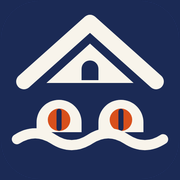
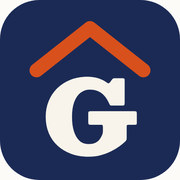
Try again on the mark: a G under the gable roof
The gable-and-gator-eyes mark read oddly. The new one is a bold
Clarendon G (Besley 900, cream) under an orange gable roof on a navy
rounded square. It stays legible at 16px and works beside the
wordmark. Favicons, the apple-touch and 512px icons and the header
mark (128px PNG/WebP) are rendered from it; the SVG favicon is
dropped since it relied on a web font. The four options compared are
in design-source/mark-options.html.

Claude-Session: https://claude.ai/code/session_01HHhNeFoxKeXYtJ9rwuHu6G

diff --git a/design-source/mark-options.html b/design-source/mark-options.html
@@ -1,0 +1,26 @@
+<!doctype html><html><head><meta charset="utf-8">
+<link rel="stylesheet" href="https://fonts.googleapis.com/css2?family=Besley:wght@800;900&display=swap">
+<style>body{margin:0;background:#fcfbf8} .m{width:512px;height:512px;display:inline-block;vertical-align:top} text{font-family:Besley}</style></head><body>
+<!-- A: GH monogram under an orange gable roof -->
+<svg class="m" id="A" viewBox="0 0 64 64"><rect width="64" height="64" rx="14" fill="#1B2A55"/>
+<path d="M12 22 32 8l20 14" fill="none" stroke="#D8501C" stroke-width="4.5" stroke-linecap="round" stroke-linejoin="round"/>
+<text x="32" y="51" text-anchor="middle" font-weight="900" font-size="30" letter-spacing="-1.5" fill="#F8F4EB">GH</text></svg>
+<!-- B: the house front, solid: steep gable, arched window, orange door -->
+<svg class="m" id="B" viewBox="0 0 64 64"><rect width="64" height="64" rx="14" fill="#1B2A55"/>
+<path d="M32 9 52 29v25H12V29z" fill="#F8F4EB"/>
+<path d="M7.5 31.5 32 8l24.5 23.5" fill="none" stroke="#F8F4EB" stroke-width="5" stroke-linecap="round" stroke-linejoin="round"/>
+<path d="M28 31v-5a4 4 0 0 1 8 0v5z" fill="#1B2A55"/>
+<rect x="27" y="40" width="10" height="14" rx="1.5" fill="#D8501C"/>
+<path d="M12 38h40" stroke="#1B2A55" stroke-width="2.2"/></svg>
+<!-- C: a single G wearing the gable -->
+<svg class="m" id="C" viewBox="0 0 64 64"><rect width="64" height="64" rx="14" fill="#1B2A55"/>
+<path d="M13 25 32 10l19 15" fill="none" stroke="#D8501C" stroke-width="5" stroke-linecap="round" stroke-linejoin="round"/>
+<text x="32" y="55" text-anchor="middle" font-weight="900" font-size="36" fill="#F8F4EB">G</text></svg>
+<!-- D: house front in a circle, porch line, no gator -->
+<svg class="m" id="D" viewBox="0 0 64 64"><circle cx="32" cy="32" r="32" fill="#1B2A55"/>
+<path d="M32 12 48 28v20H16V28z" fill="#F8F4EB"/>
+<path d="M11 30.5 32 11l21 19.5" fill="none" stroke="#D8501C" stroke-width="4.5" stroke-linecap="round" stroke-linejoin="round"/>
+<path d="M28.5 30v-4a3.5 3.5 0 0 1 7 0v4z" fill="#1B2A55"/>
+<path d="M12 40h40" stroke="#1B2A55" stroke-width="2.5"/><path d="M12 40h40" stroke="#F8F4EB" stroke-width="0"/>
+<rect x="28" y="40" width="8" height="8" fill="#1B2A55"/></svg>
+</body></html>

diff --git a/site/history.html b/site/history.html
@@ -7,8 +7,8 @@
 <meta name="description" content="The story of the Albert Blanding House: built in 1899 in Gainesville's Duck Pond, credited to Judge Horatio Davis, and home to Albert Hazen Blanding, the general Camp Blanding is named for.">
 <meta name="theme-color" content="#fcfbf8">
 <link rel="canonical" href="https://www.gatorhavenhouse.com/history">
-<link rel="icon" href="favicon.ico" sizes="32x32">
-<link rel="icon" href="favicon.svg" type="image/svg+xml">
+<link rel="icon" href="favicon.ico" sizes="48x48">
+<link rel="icon" href="favicon-64.png" type="image/png" sizes="64x64">
 <link rel="apple-touch-icon" href="apple-touch-icon.png">
 <link rel="manifest" href="site.webmanifest">
 <meta property="og:type" content="website">
@@ -49,7 +49,7 @@
 <header class="site-header">
   <div class="wrap header-row">
     <a class="mark" href="./" aria-label="Gator Haven House, home">
-      <img class="mark-seal" src="images/mark.svg" width="64" height="64" alt="">
+      <picture><source type="image/webp" srcset="images/mark-128.webp"><img class="mark-seal" src="images/mark-128.png" width="128" height="128" alt=""></picture>
       <img class="mark-word-img" src="images/wordmark-navy-480.png" srcset="images/wordmark-navy-480.png 480w, images/wordmark-navy-960.png 960w" sizes="140px" width="480" height="187" alt="">
     </a>
     <nav class="nav" aria-label="Main">

diff --git a/site/photos.html b/site/photos.html
@@ -7,8 +7,8 @@
 <meta name="description" content="Photos of Gator Haven House, the 1899 Albert Blanding House in Gainesville's Duck Pond: the home today, the renovation in progress and renderings of the finished rooms.">
 <meta name="theme-color" content="#fcfbf8">
 <link rel="canonical" href="https://www.gatorhavenhouse.com/photos">
-<link rel="icon" href="favicon.ico" sizes="32x32">
-<link rel="icon" href="favicon.svg" type="image/svg+xml">
+<link rel="icon" href="favicon.ico" sizes="48x48">
+<link rel="icon" href="favicon-64.png" type="image/png" sizes="64x64">
 <link rel="apple-touch-icon" href="apple-touch-icon.png">
 <link rel="manifest" href="site.webmanifest">
 <meta property="og:type" content="website">
@@ -49,7 +49,7 @@
 <header class="site-header">
   <div class="wrap header-row">
     <a class="mark" href="./" aria-label="Gator Haven House, home">
-      <img class="mark-seal" src="images/mark.svg" width="64" height="64" alt="">
+      <picture><source type="image/webp" srcset="images/mark-128.webp"><img class="mark-seal" src="images/mark-128.png" width="128" height="128" alt=""></picture>
       <img class="mark-word-img" src="images/wordmark-navy-480.png" srcset="images/wordmark-navy-480.png 480w, images/wordmark-navy-960.png 960w" sizes="140px" width="480" height="187" alt="">
     </a>
     <nav class="nav" aria-label="Main">

diff --git a/site/index.html b/site/index.html
@@ -7,8 +7,8 @@
 <meta name="description" content="The Albert Blanding House, an 1899 Queen Anne for rent near UF in Gainesville's Duck Pond. Sleeps 8, fenced yard, pets welcome, 98-inch TV. Opening December 26, 2026.">
 <meta name="theme-color" content="#fcfbf8">
 <link rel="canonical" href="https://www.gatorhavenhouse.com/">
-<link rel="icon" href="favicon.ico" sizes="32x32">
-<link rel="icon" href="favicon.svg" type="image/svg+xml">
+<link rel="icon" href="favicon.ico" sizes="48x48">
+<link rel="icon" href="favicon-64.png" type="image/png" sizes="64x64">
 <link rel="apple-touch-icon" href="apple-touch-icon.png">
 <link rel="manifest" href="site.webmanifest">
 <meta property="og:type" content="website">
@@ -76,7 +76,7 @@
 <header class="site-header">
   <div class="wrap header-row">
     <a class="mark" href="./" aria-label="Gator Haven House, home">
-      <img class="mark-seal" src="images/mark.svg" width="64" height="64" alt="">
+      <picture><source type="image/webp" srcset="images/mark-128.webp"><img class="mark-seal" src="images/mark-128.png" width="128" height="128" alt=""></picture>
       <img class="mark-word-img" src="images/wordmark-navy-480.png" srcset="images/wordmark-navy-480.png 480w, images/wordmark-navy-960.png 960w" sizes="140px" width="480" height="187" alt="">
     </a>
     <nav class="nav" aria-label="Main">

diff --git a/site/guide.html b/site/guide.html
@@ -7,8 +7,8 @@
 <meta name="description" content="Coffee, restaurants, drinks and things to do near Gator Haven House in Gainesville's Duck Pond, with walking and driving times from the front door.">
 <meta name="theme-color" content="#fcfbf8">
 <link rel="canonical" href="https://www.gatorhavenhouse.com/guide">
-<link rel="icon" href="favicon.ico" sizes="32x32">
-<link rel="icon" href="favicon.svg" type="image/svg+xml">
+<link rel="icon" href="favicon.ico" sizes="48x48">
+<link rel="icon" href="favicon-64.png" type="image/png" sizes="64x64">
 <link rel="apple-touch-icon" href="apple-touch-icon.png">
 <link rel="manifest" href="site.webmanifest">
 <meta property="og:type" content="website">
@@ -49,7 +49,7 @@
 <header class="site-header">
   <div class="wrap header-row">
     <a class="mark" href="./" aria-label="Gator Haven House, home">
-      <img class="mark-seal" src="images/mark.svg" width="64" height="64" alt="">
+      <picture><source type="image/webp" srcset="images/mark-128.webp"><img class="mark-seal" src="images/mark-128.png" width="128" height="128" alt=""></picture>
       <img class="mark-word-img" src="images/wordmark-navy-480.png" srcset="images/wordmark-navy-480.png 480w, images/wordmark-navy-960.png 960w" sizes="140px" width="480" height="187" alt="">
     </a>
     <nav class="nav" aria-label="Main">

diff --git a/site/404.html b/site/404.html
@@ -8,8 +8,8 @@
 <meta name="description" content="This page isn't here. Head back to Gator Haven House.">
 <meta name="theme-color" content="#fcfbf8">
 <meta name="robots" content="noindex">
-<link rel="icon" href="favicon.ico" sizes="32x32">
-<link rel="icon" href="favicon.svg" type="image/svg+xml">
+<link rel="icon" href="favicon.ico" sizes="48x48">
+<link rel="icon" href="favicon-64.png" type="image/png" sizes="64x64">
 <link rel="apple-touch-icon" href="apple-touch-icon.png">
 <link rel="manifest" href="site.webmanifest">
 <meta property="og:type" content="website">
@@ -50,7 +50,7 @@
 <header class="site-header">
   <div class="wrap header-row">
     <a class="mark" href="./" aria-label="Gator Haven House, home">
-      <img class="mark-seal" src="images/mark.svg" width="64" height="64" alt="">
+      <picture><source type="image/webp" srcset="images/mark-128.webp"><img class="mark-seal" src="images/mark-128.png" width="128" height="128" alt=""></picture>
       <img class="mark-word-img" src="images/wordmark-navy-480.png" srcset="images/wordmark-navy-480.png 480w, images/wordmark-navy-960.png 960w" sizes="140px" width="480" height="187" alt="">
     </a>
     <nav class="nav" aria-label="Main">

diff --git a/site/thanks.html b/site/thanks.html
@@ -7,8 +7,8 @@
 <meta name="description" content="You're on the Gator Haven House guest list.">
 <meta name="theme-color" content="#fcfbf8">
 <meta name="robots" content="noindex">
-<link rel="icon" href="favicon.ico" sizes="32x32">
-<link rel="icon" href="favicon.svg" type="image/svg+xml">
+<link rel="icon" href="favicon.ico" sizes="48x48">
+<link rel="icon" href="favicon-64.png" type="image/png" sizes="64x64">
 <link rel="apple-touch-icon" href="apple-touch-icon.png">
 <link rel="manifest" href="site.webmanifest">
 <meta property="og:type" content="website">
@@ -49,7 +49,7 @@
 <header class="site-header">
   <div class="wrap header-row">
     <a class="mark" href="./" aria-label="Gator Haven House, home">
-      <img class="mark-seal" src="images/mark.svg" width="64" height="64" alt="">
+      <picture><source type="image/webp" srcset="images/mark-128.webp"><img class="mark-seal" src="images/mark-128.png" width="128" height="128" alt=""></picture>
       <img class="mark-word-img" src="images/wordmark-navy-480.png" srcset="images/wordmark-navy-480.png 480w, images/wordmark-navy-960.png 960w" sizes="140px" width="480" height="187" alt="">
     </a>
     <nav class="nav" aria-label="Main">

diff --git a/site/css/site.css b/site/css/site.css
@@ -663,7 +663,7 @@ fieldset.field { border: 0; padding: 0; margin: 0; }
 /* ---------------- Round 3 art set ---------------- */
 /* masthead: seal + hand-lettered wordmark */
 .mark { gap: calc(10px * var(--s)); }
-.mark-seal { width: calc(44px * var(--s)); height: calc(44px * var(--s)); flex: none; border-radius: 22%; }
+.mark-seal { width: calc(44px * var(--s)); height: calc(44px * var(--s)); flex: none; border-radius: 22%; display: block; }
 .mark-word-img { height: calc(52px * var(--s)); width: auto; }
 @media (max-width: 560px) { .mark-seal { width: calc(38px * var(--s)); height: calc(38px * var(--s)); } .mark-word-img { height: calc(44px * var(--s)); } }
 .seal-core { width: 64%; background: var(--ink); overflow: hidden; }
